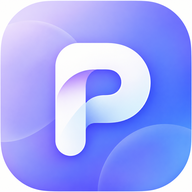
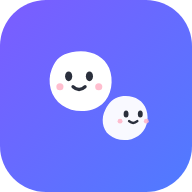
모이모이 리브랜딩 + 개인정보처리방침 + 브랜드 이미지·스토어 자료 (#3)
- /privacy/ 개인정보처리방침 페이지
- Ploop → 모이모이 이름 변경 (주소·링크·데이터 호환 유지)
- 아이콘·og 이미지 교체(블롭 캐릭터), store/ 스토어 자료
- sw.js VERSION 2026-11-23-2

Claude-Session: https://claude.ai/code/session_01YBAvy9cvFjtU5XawFUPuSx

diff --git a/privacy/index.html b/privacy/index.html
@@ -1,0 +1,134 @@
+<!doctype html>
+<html lang="ko">
+<head>
+<meta charset="utf-8">
+<meta name="viewport" content="width=device-width, initial-scale=1, viewport-fit=cover">
+<title>모이모이 개인정보처리방침</title>
+<meta name="description" content="모이모이(moimoi) 개인정보처리방침 — 로그인 없이 쓰는 모임 일정·정산 서비스가 어떤 정보를 어떻게 다루는지 설명해요.">
+<meta name="theme-color" content="#5B5CF6">
+<link rel="icon" type="image/png" sizes="192x192" href="/PLOOP/icon-192.png">
+<link rel="stylesheet" href="https://cdn.jsdelivr.net/gh/orioncactus/pretendard@v1.3.9/dist/web/variable/pretendardvariable-dynamic-subset.min.css">
+<style>
+:root{
+  --bg:#FBFAFF; --card:#FFFFFF; --ink:#191F28; --sub:#4E5968; --muted:#686F78; --line:#E5E8EB;
+  --b1:#7758F4; --b2:#4F7BFF; --b-soft:#F1EEFF; --brand:#5657E9;
+  --font:"Pretendard Variable","Pretendard",-apple-system,BlinkMacSystemFont,"Apple SD Gothic Neo","Noto Sans KR","Malgun Gothic",sans-serif;
+  color-scheme:light;
+}
+*,*::before,*::after{box-sizing:border-box}
+body{margin:0;background:var(--bg);color:var(--ink);font-family:var(--font);font-size:16px;line-height:1.7;letter-spacing:-0.01em;-webkit-font-smoothing:antialiased;word-break:keep-all;
+  background-image:radial-gradient(420px 320px at 85% -40px,rgba(124,92,255,.14),transparent 70%),radial-gradient(380px 300px at -60px 220px,rgba(79,123,255,.10),transparent 70%);background-repeat:no-repeat}
+.wrap{max-width:720px;margin:0 auto;padding:24px 20px 64px}
+.brand{display:flex;align-items:center;gap:10px;padding:4px 0 8px;text-decoration:none;color:inherit}
+.brand img{width:36px;height:36px;border-radius:10px}
+.brand b{font-size:21px;font-weight:800;letter-spacing:-0.03em}
+.brand span{font-size:12px;font-weight:600;color:#6E51E2;background:var(--b-soft);border-radius:999px;padding:3px 9px}
+h1{margin:28px 0 6px;font-size:28px;line-height:1.35;font-weight:800;letter-spacing:-0.03em}
+.date{margin:0 0 20px;font-size:14px;color:var(--muted)}
+.lead{background:var(--card);border:1px solid #EEEAFB;border-radius:18px;padding:18px 20px;margin:0 0 28px;color:var(--sub);box-shadow:0 6px 24px -16px rgba(60,50,140,.18)}
+.lead b{color:var(--ink)}
+h2{margin:36px 0 10px;font-size:19px;font-weight:800;letter-spacing:-0.02em}
+h2 .n{display:inline-grid;place-items:center;width:26px;height:26px;margin-right:8px;border-radius:50%;font-size:13px;font-weight:800;color:#fff;background:linear-gradient(120deg,var(--b1),var(--b2));vertical-align:-5px}
+p{margin:0 0 10px;color:var(--sub)}
+ul{margin:0 0 10px;padding-left:20px;color:var(--sub)}
+li{margin:4px 0}
+strong{color:var(--ink);font-weight:700}
+a{color:var(--brand);text-decoration:none;font-weight:600}
+a:hover{text-decoration:underline}
+table{width:100%;border-collapse:collapse;margin:8px 0 10px;font-size:14px;background:var(--card);border-radius:14px;overflow:hidden;border:1px solid var(--line)}
+th,td{padding:10px 12px;text-align:left;vertical-align:top;border-top:1px solid var(--line)}
+thead th{border-top:0;background:#F7F6FF;color:var(--ink);font-weight:700;font-size:13px}
+td{color:var(--sub)}
+.note{background:var(--b-soft);border-radius:14px;padding:12px 16px;font-size:14px;color:#4F3FB0;margin:10px 0}
+footer{margin-top:48px;padding-top:20px;border-top:1px solid var(--line);font-size:13px;color:var(--muted);display:flex;justify-content:space-between;gap:12px;flex-wrap:wrap}
+@media (max-width:420px){h1{font-size:24px}}
+</style>
+</head>
+<body>
+<div class="wrap">
+  <a class="brand" href="/PLOOP/"><img src="/PLOOP/icon-192.png" alt=""><b>모이모이</b><span>moimoi</span></a>
+
+  <h1>개인정보처리방침</h1>
+  <p class="date">시행일 · 2026년 11월 23일</p>
+
+  <div class="lead">
+    모이모이(moimoi)는 <b>회원가입과 로그인이 없는</b> 모임 일정·정산 서비스예요.
+    운영자는 이름, 이메일, 전화번호 같은 <b>개인 식별 정보를 요구하거나 수집하지 않아요.</b>
+    이 문서는 서비스를 쓰는 동안 어떤 정보가 어디에 저장되는지 숨김없이 설명해요.
+  </div>
+
+  <h2><span class="n">1</span>수집·저장되는 정보</h2>
+  <p>모이모이에 저장되는 정보는 <strong>사용자가 모임 화면에 직접 입력한 내용</strong>이 전부예요.</p>
+  <table>
+    <thead><tr><th>정보</th><th>예시</th><th>저장 위치</th></tr></thead>
+    <tbody>
+      <tr><td><strong>모임 정보</strong></td><td>모임 이름, 설명, 유형, 날짜·장소 후보와 투표, 일정</td><td>서버(Firebase)</td></tr>
+      <tr><td><strong>멤버 이름</strong></td><td>모임에 추가한 이름 또는 별명</td><td>서버(Firebase)</td></tr>
+      <tr><td><strong>정산 기록</strong></td><td>지출 내역·금액, 송금 기록</td><td>서버(Firebase)</td></tr>
+      <tr><td><strong>송금 안내 정보</strong></td><td>멤버가 직접 등록한 토스·카카오페이 링크, 계좌번호</td><td>서버(Firebase)</td></tr>
+      <tr><td><strong>이용 편의 정보</strong></td><td>최근 들어간 모임 목록, 내가 고른 멤버, 마지막으로 본 일정(보기용 캐시)</td><td>내 기기(브라우저)에만 저장, 서버로 전송 안 됨</td></tr>
+    </tbody>
+  </table>
+  <ul>
+    <li>모든 데이터는 <strong>HTTPS로 암호화되어 전송</strong>되고, Google Firebase(Firestore)에 저장돼요.</li>
+    <li>모임 비밀번호의 <strong>원문은 서버에 저장되지 않아요.</strong> 비밀번호로 만든 해시값만 데이터 경로에 사용되고, 입력 편의를 위해 내 기기에만 기억돼요.</li>
+    <li>기기에 저장되는 '마지막으로 본 일정' 캐시에는 계좌·송금 안내 정보를 담지 않아요.</li>
+  </ul>
+
+  <h2><span class="n">2</span>수집하지 않는 정보</h2>
+  <ul>
+    <li>계정 정보(이름·이메일·전화번호 등) — 회원가입 자체가 없어요.</li>
+    <li>기기의 위치 정보 — 지도의 장소 검색은 입력한 검색어로만 동작하고, GPS 등 기기 위치에 접근하지 않아요.</li>
+    <li>연락처, 사진, 파일 등 기기 안의 다른 정보.</li>
+    <li>광고 식별자 — 광고가 없고, 별도의 광고·분석 SDK를 사용하지 않아요.</li>
+  </ul>
+
+  <h2><span class="n">3</span>링크 공유와 공개 범위</h2>
+  <p>모이모이는 로그인 대신 <strong>공유 링크가 열쇠</strong>인 서비스예요.</p>
+  <ul>
+    <li><strong>링크를 아는 사람은 누구나</strong> 그 모임의 내용을 보고 수정할 수 있어요. 링크는 믿을 수 있는 사람에게만 공유해주세요.</li>
+    <li>모임 주소는 무작위로 만들어지고, 전체 모임 목록 조회는 서버 규칙으로 차단되어 있어 주소를 모르면 다른 모임을 찾을 수 없어요.</li>
+    <li>더 민감한 모임에는 <strong>비밀번호</strong>를 걸 수 있어요. 비밀번호가 걸린 모임은 주소만으로는 열 수 없어요.</li>
+  </ul>
+  <div class="note">주민등록번호, 카드 번호, 비밀번호 같은 민감한 정보는 모임 내용에 입력하지 말아주세요. 계좌번호 등 송금 안내 정보도 같은 모임의 멤버에게 보여진다는 점을 생각하고 등록해주세요.</div>
+
+  <h2><span class="n">4</span>이용하는 외부 서비스</h2>
+  <p>서비스 제공을 위해 아래 외부 서비스를 이용해요. 각 서비스는 자체 방침에 따라 통신 기록 등을 처리할 수 있어요.</p>
+  <table>
+    <thead><tr><th>서비스</th><th>용도</th><th>방침</th></tr></thead>
+    <tbody>
+      <tr><td><strong>Google Firebase</strong> (Firestore)</td><td>모임 데이터 저장·실시간 동기화</td><td><a href="https://firebase.google.com/support/privacy" target="_blank" rel="noopener">Firebase 개인정보 보호</a></td></tr>
+      <tr><td><strong>카카오맵</strong></td><td>장소 검색·지도 표시(지도 기능을 쓸 때만 불러옴)</td><td><a href="https://www.kakao.com/policy/privacy" target="_blank" rel="noopener">카카오 개인정보처리방침</a></td></tr>
+      <tr><td><strong>GitHub Pages</strong></td><td>웹페이지 호스팅</td><td><a href="https://docs.github.com/site-policy/privacy-policies/github-general-privacy-statement" target="_blank" rel="noopener">GitHub Privacy Statement</a></td></tr>
+      <tr><td><strong>글꼴·라이브러리 CDN</strong></td><td>글꼴(Pretendard) 등 정적 파일 제공</td><td>jsDelivr·cdnjs 등</td></tr>
+    </tbody>
+  </table>
+  <p>위 목적 외에 데이터를 제3자에게 제공하거나 판매하지 않아요.</p>
+
+  <h2><span class="n">5</span>보관 기간과 삭제</h2>
+  <ul>
+    <li>모임 데이터는 <strong>사용자가 삭제할 때까지</strong> 보관돼요.</li>
+    <li>모임 화면의 <strong>설정 → 이 모임 삭제</strong>를 누르면 그 모임의 일정·투표·정산 기록이 서버에서 바로 삭제되고 되돌릴 수 없어요.</li>
+    <li>기기에 저장된 목록·캐시는 브라우저의 사이트 데이터 삭제로 지울 수 있어요.</li>
+    <li>직접 삭제하기 어려운 데이터가 있다면 아래 문의 채널로 요청해주세요. 확인 후 지체 없이 삭제할게요.</li>
+  </ul>
+
+  <h2><span class="n">6</span>아동의 개인정보</h2>
+  <p>모이모이는 특정 연령을 대상으로 하지 않으며, 아동의 개인정보를 의도적으로 수집하지 않아요. 애초에 계정과 개인 식별 정보 수집이 없어요.</p>
+
+  <h2><span class="n">7</span>방침의 변경</h2>
+  <p>이 방침이 바뀌면 이 페이지에서 시행일과 함께 고지해요. 중요한 변경이 있으면 서비스 화면에서도 알려드릴게요.</p>
+
+  <h2><span class="n">8</span>문의</h2>
+  <p>개인정보 처리에 대한 질문이나 삭제 요청은 아래 채널로 보내주세요.</p>
+  <ul>
+    <li>GitHub: <a href="https://github.com/zaen92/PLOOP/issues" target="_blank" rel="noopener">github.com/zaen92/PLOOP/issues</a></li>
+  </ul>
+
+  <footer>
+    <span>© moimoi</span>
+    <a href="/PLOOP/">모이모이 홈으로 →</a>
+  </footer>
+</div>
+</body>
+</html>

diff --git a/index.html b/index.html
@@ -4,12 +4,12 @@
 <meta charset="utf-8">
 <meta name="color-scheme" content="light">
 <meta name="viewport" content="width=device-width, initial-scale=1, viewport-fit=cover">
-<title>Ploop</title>
-<meta name="application-name" content="Ploop">
+<title>모이모이</title>
+<meta name="application-name" content="모이모이">
 <meta name="description" content="여행·모임 정산을 링크 하나로 같이 정리해요">
 <meta property="og:type" content="website">
-<meta property="og:site_name" content="Ploop">
-<meta property="og:title" content="Ploop | Plan + Loop">
+<meta property="og:site_name" content="모이모이">
+<meta property="og:title" content="모이모이 | moimoi">
 <meta property="og:description" content="링크만 공유하면 누구나 함께 일정 관리부터 정산까지!">
 <meta property="og:url" content="https://zaen92.github.io/PLOOP/">
 <meta property="og:image" content="https://zaen92.github.io/PLOOP/og-img.png">
@@ -24,7 +24,7 @@
 <link rel="apple-touch-icon" sizes="180x180" href="/PLOOP/apple-touch-icon.png">
 
 <!-- 아이폰 홈 화면 앱 이름 -->
-<meta name="apple-mobile-web-app-title" content="Ploop">
+<meta name="apple-mobile-web-app-title" content="모이모이">
 
 <!-- 아이폰 전체 화면 실행 -->
 <meta name="apple-mobile-web-app-capable" content="yes">
@@ -881,7 +881,7 @@ body.landing-mode,body.gate-mode{background:#FBFAFF}
 
   <!-- 메인 -->
   <section id="stepHome" data-step="home" aria-labelledby="homeTitle">
-    <header class="l-brand"><img src="icon-192.png" alt="" width="36" height="36"><span class="l-word">Ploop</span><span class="l-tag">Plan + Loop</span></header>
+    <header class="l-brand"><img src="icon-192.png" alt="" width="36" height="36"><span class="l-word">모이모이</span><span class="l-tag">moimoi</span></header>
     <div class="l-hero">
       <h1 id="homeTitle">함께하는 계획,<br><span class="l-grad">링크 하나로 끝!</span></h1>
       <p>약속부터 여행 일정, 비용 정산까지 친구들과 간편하게 관리하세요.</p>
@@ -897,7 +897,7 @@ body.landing-mode,body.gate-mode{background:#FBFAFF}
       <p class="mr-note">이 목록은 이 기기(브라우저)에만 저장돼요. 다른 기기와는 동기화되지 않아요. 모임 데이터는 서버에 있으니 링크로 다시 들어가면 돼요.</p>
     </section>
     <section class="l-sec" aria-labelledby="featTitle">
-      <h2 class="l-h2" id="featTitle">Ploop으로 할 수 있는 일</h2>
+      <h2 class="l-h2" id="featTitle">모이모이로 할 수 있는 일</h2>
       <div class="l-feats">
         <article class="l-feat"><span class="l-ic" aria-hidden="true">📅</span><div><h3>약속 잡기</h3><p>되는 날짜를 모으고, 시간·장소 후보에 투표해서 한 번에 확정해요.</p></div></article>
         <article class="l-feat"><span class="l-ic" aria-hidden="true">🧳</span><div><h3>여행 계획</h3><p>여행 날짜를 맞추고 날짜별 일정·장소·숙소를 함께 짜요.</p></div></article>
@@ -986,7 +986,7 @@ body.landing-mode,body.gate-mode{background:#FBFAFF}
 
 <div class="wrap" id="app">
   <div class="topbar">
-    <a class="home-logo" id="goHome" href="./" aria-label="Ploop 홈으로" title="홈"><img src="icon-192.png" alt="" width="32" height="32"></a>
+    <a class="home-logo" id="goHome" href="./" aria-label="모이모이 홈으로" title="홈"><img src="icon-192.png" alt="" width="32" height="32"></a>
     <div class="trips-box" id="tabsBox"><nav class="trips" id="tabs" aria-label="모임 목록"></nav></div>
     <button class="tabs-all" id="tabsAll" aria-label="모임 전체 보기" title="모임 전체 보기" hidden><svg width="18" height="18" viewBox="0 0 24 24" fill="none" stroke="currentColor" stroke-width="2.2" stroke-linecap="round" aria-hidden="true"><path d="M4 6h16M4 12h16M4 18h16"/></svg><b id="tabsCount"></b></button>
     <button class="tabs-add" id="addTrip" aria-label="같은 링크에 새 모임 추가" title="새 모임">＋</button>
@@ -3230,7 +3230,7 @@ $("#tripName").addEventListener("keydown",e=>{if(e.key==="Enter"){e.preventDefau
 async function copyShare(){
   const url=shareUrl();
   let ok=false;try{await navigator.clipboard.writeText(url);ok=true;}catch(e){}
-  if(!ok&&navigator.share){try{await navigator.share({title:cur().name||"Ploop 모임",url});return;}catch(e){if(e&&e.name==="AbortError")return;}}
+  if(!ok&&navigator.share){try{await navigator.share({title:cur().name||"모이모이 모임",url});return;}catch(e){if(e&&e.name==="AbortError")return;}}
   toast(ok?(PIN?"링크를 복사했어요. 비밀번호가 들어 있어 받은 사람은 바로 들어와요":"링크를 복사했어요. 받은 사람 누구나 같이 볼 수 있어요"):url);
 }
 $("#shareLink").addEventListener("click",copyShare);

diff --git a/sw.js b/sw.js
@@ -1,4 +1,4 @@
-/* Ploop service worker
+/* 모이모이(moimoi) service worker
  * 업데이트 전략 — 오래된 화면이 남지 않게
  *  1) 화면(HTML) 요청은 항상 네트워크에서 새로 받아요. 캐시에 저장하지 않아요.
  *     → 새 index.html을 올리면 다음에 열 때 바로 새 화면이에요.
@@ -11,7 +11,7 @@
  *     (안 바꿔도 1)번 덕분에 다음 실행부터는 새 화면이에요.)
  *  긴급 해제: 주소 뒤에 ?nosw 를 붙여 한 번 열면 이 서비스 워커가 해제돼요.
  */
-const VERSION = "2026-11-23-1";
+const VERSION = "2026-11-23-2";
 const CACHE = "ploop-" + VERSION;
 const PINNED = [
   /^https:\/\/www\.gstatic\.com\/firebasejs\/\d+\.\d+\.\d+\//,
@@ -27,11 +27,11 @@ self.addEventListener("activate", e => {
   })());
 });
 
-const OFFLINE_HTML = `<!doctype html><html lang="ko"><head><meta charset="utf-8"><meta name="viewport" content="width=device-width,initial-scale=1,viewport-fit=cover"><meta name="theme-color" content="#5B5CF6"><title>Ploop</title>
+const OFFLINE_HTML = `<!doctype html><html lang="ko"><head><meta charset="utf-8"><meta name="viewport" content="width=device-width,initial-scale=1,viewport-fit=cover"><meta name="theme-color" content="#5B5CF6"><title>모이모이</title>
 <style>body{margin:0;min-height:100vh;display:grid;place-items:center;background:#FBFAFF;color:#191F28;font-family:-apple-system,BlinkMacSystemFont,"Apple SD Gothic Neo","Noto Sans KR",sans-serif;padding:24px;box-sizing:border-box;text-align:center}
 .b{max-width:340px}.i{width:72px;height:72px;border-radius:20px;margin:0 auto 18px;display:grid;place-items:center;font-size:34px;font-weight:800;color:#fff;background:linear-gradient(135deg,#7C5CFF,#4F7BFF)}
 h1{font-size:21px;margin:0 0 8px}p{margin:0 0 22px;color:#4E5968;line-height:1.6;font-size:15px}button{min-height:52px;width:100%;border:0;border-radius:14px;background:linear-gradient(120deg,#7C5CFF,#4F7BFF);color:#fff;font-size:16px;font-weight:700}</style></head>
-<body><div class="b"><div class="i">P</div><h1>인터넷 연결이 필요해요</h1><p>Ploop은 친구들과 같은 데이터를 함께 보기 때문에 연결된 상태에서만 열려요. 연결되면 자동으로 다시 열려요.</p><button onclick="location.reload()">다시 시도</button></div>
+<body><div class="b"><div class="i">P</div><h1>인터넷 연결이 필요해요</h1><p>모이모이는 친구들과 같은 데이터를 함께 보기 때문에 연결된 상태에서만 열려요. 연결되면 자동으로 다시 열려요.</p><button onclick="location.reload()">다시 시도</button></div>
 <script>addEventListener("online",()=>location.reload())</script></body></html>`;
 const offline = () => new Response(OFFLINE_HTML, { headers: { "Content-Type": "text/html; charset=utf-8", "Cache-Control": "no-store" } });
 

diff --git a/tests/server.js b/tests/server.js
@@ -84,6 +84,7 @@ function start(port = 8790) {
     if (u.pathname === "/" ) { res.writeHead(302, { Location: "/PLOOP/" }); return res.end(); }
     if (!u.pathname.startsWith("/PLOOP/")) { res.writeHead(404); return res.end("not found"); }
     let rel = decodeURIComponent(u.pathname.slice("/PLOOP/".length)) || "index.html";
+    if (rel.endsWith("/")) rel += "index.html";   // 폴더 주소(/privacy/)는 GitHub Pages처럼 index.html로
     let file = path.join(ROOT, rel);
     if (rel === "old.html" && process.env.OLD_HTML) file = process.env.OLD_HTML;
     if (rel === "fbmock.js") file = path.join(__dirname, "fbmock.js");

diff --git a/store/스토어-문구.md b/store/스토어-문구.md
@@ -1,0 +1,52 @@
+# 모이모이 — 플레이 스토어 등록 자료
+
+## 앱 이름 (30자 이내)
+모이모이 - 약속·여행·정산을 링크 하나로
+
+## 짧은 설명 (80자 이내)
+가입 없이 링크 하나로! 날짜 투표부터 여행 일정, 더치페이 정산까지 친구들과 함께.
+
+## 자세한 설명
+모이는 게 왜 이렇게 어려울까요?
+단톡방에서 "언제 돼?"만 반복하다 흐지부지…
+모이모이는 링크 하나로 약속부터 정산까지 끝내는 모임 도우미예요.
+
+🙌 가입도 설치 강요도 없어요
+· 모임을 만들면 링크가 생겨요. 단톡방에 공유하면 끝!
+· 친구는 앱 설치 없이 링크만 눌러 바로 참여해요.
+
+🗳 되는 날짜에 콕콕, 투표 끝
+· 달력에서 되는 날을 한 번씩 누르면 자동 저장돼요.
+· 모두의 응답이 실시간으로 모이고, 가장 많이 겹치는 날짜를 추천해 드려요.
+· 시간·장소·메뉴 후보도 올리고 투표로 정해요.
+
+🧳 여행 일정도 다 같이
+· 여행 기간을 맞추고, 날짜별 일정과 숙소·장소를 함께 짜요.
+· 확정된 장소는 일정표에 자동으로 들어가요.
+
+🧾 더치페이, 이제 3초
+· 누가 얼마 썼는지만 적으면 "누가 누구에게 얼마"를 자동 계산해요.
+· 토스·카카오페이 링크로 바로 송금을 안내할 수 있어요.
+
+📂 내 모임을 한눈에
+· 들어갔던 모임이 카드로 정리돼요. 인원, 확정 날짜, 진행 상태까지.
+
+🔒 걱정은 덜고
+· 회원가입이 없어서 개인 식별 정보를 수집하지 않아요.
+· 민감한 모임엔 비밀번호를 걸 수 있어요.
+· 개인정보처리방침: https://zaen92.github.io/PLOOP/privacy/
+
+친구들과의 다음 모임, 모이모이에서 모여요! 👋
+
+## 그래픽 자료 (이 폴더)
+| 파일 | 용도 | 규격 |
+|---|---|---|
+| ../icon-maskable-512.png | 앱 아이콘 (풀블리드 — 플레이 콘솔용 권장) | 512×512 |
+| feature-graphic.png | 피처 그래픽 | 1024×500 |
+| shot-1-home.png ~ shot-6-create.png | 휴대전화 스크린샷 6장 | 1080×2340 |
+
+## 기타
+- 패키지 ID 권장: io.github.zaen92.moimoi
+- 카테고리: 라이프스타일 (또는 소셜)
+- 콘텐츠 등급: 전체이용가 (UGC 설문에서 "사용자 간 콘텐츠 공유 있음"으로 응답)
+- 개인정보처리방침 URL: https://zaen92.github.io/PLOOP/privacy/
